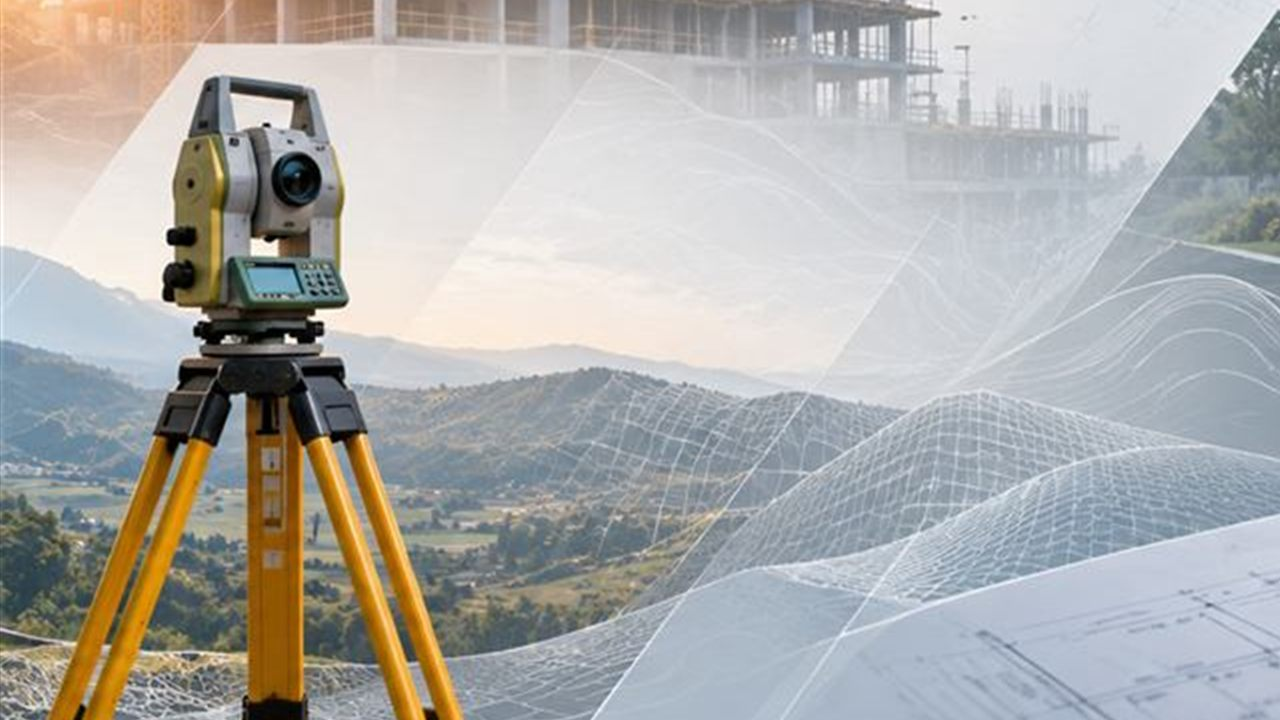
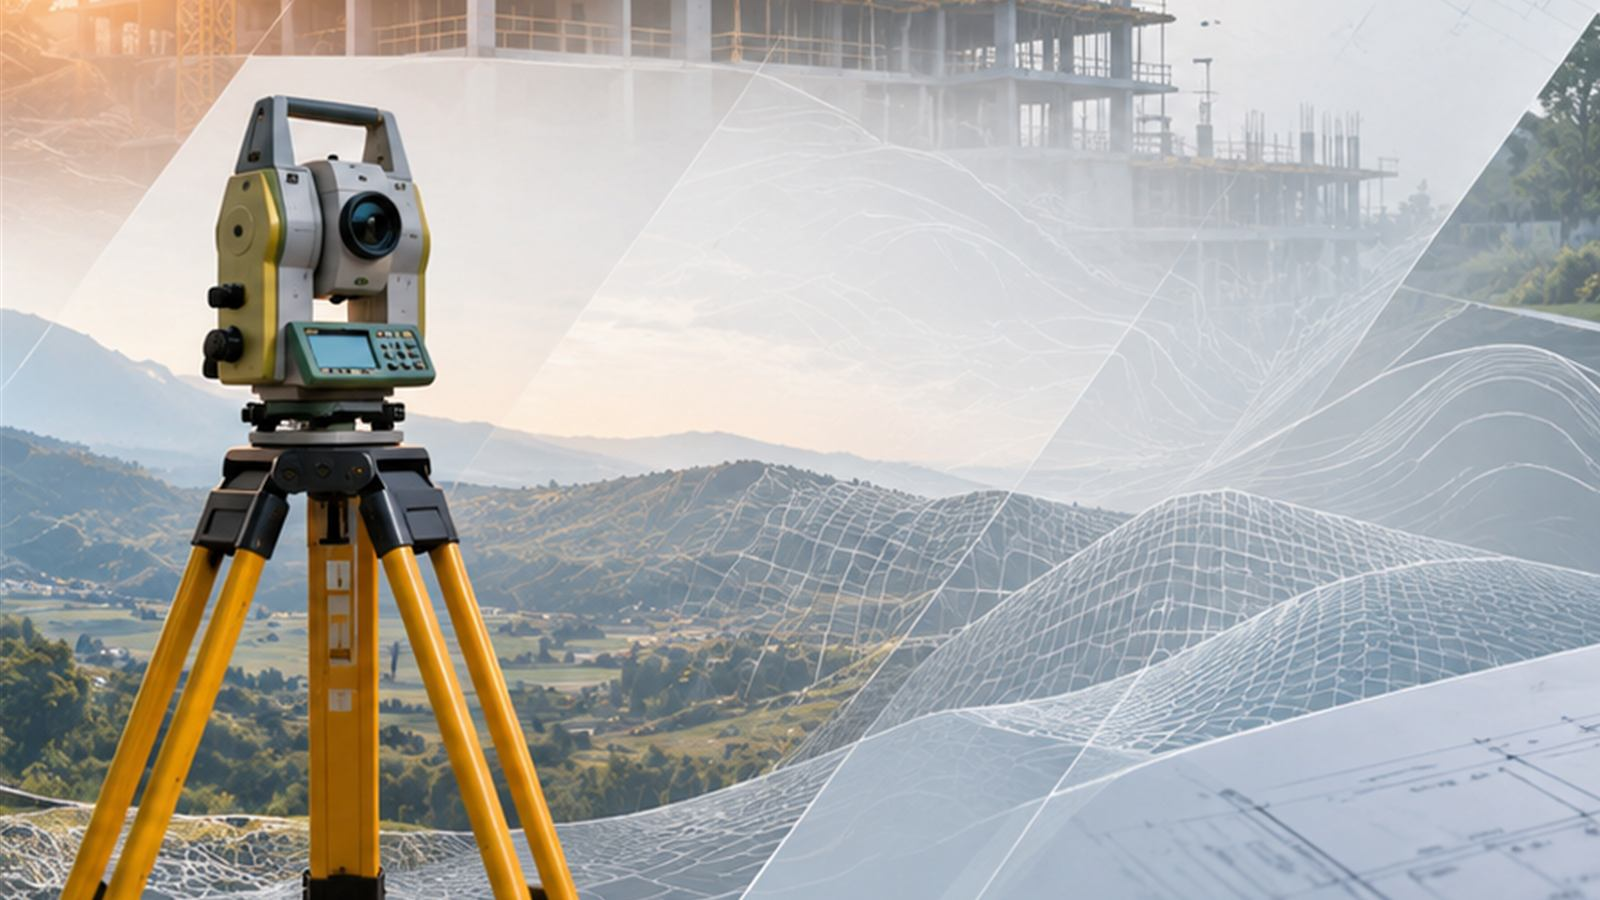
jas

diff --git a/assets/galeria.css b/assets/galeria.css
@@ -100,8 +100,12 @@ footer { color: var(--muted); font-size: .85rem; }
 .odovzdat input, .odovzdat select { font: inherit; padding: 9px 12px; border: 1px solid var(--border); border-radius: 8px; background: var(--card); color: var(--text); }
 .odovzdat button { font: inherit; padding: 11px 18px; border: 0; border-radius: 10px; background: var(--accent); color: #fff; font-weight: 700; cursor: pointer; }
 .odovzdat li { margin: 6px 0; }
-/* stránka školského roka: fotografia na pozadí (assets/rok-<rok>.jpg), cez ňu priesvitný závoj kvôli čitateľnosti */
-body.s-pozadie { background: linear-gradient(rgba(246,247,251,.78), rgba(246,247,251,.9)), var(--pozadie) center top / cover fixed no-repeat; min-height: 100vh; }
+/* stránky školského roka a tried: fotka na pozadí (assets/rok-<rok>.jpg alebo pozadie-<odbor>.jpg), cez ňu priesvitný závoj kvôli čitateľnosti.
+   Jas obrázka sa ladí v --pozadie-jas, sila závoja v --zavoj-hore / --zavoj-dole. */
+body.s-pozadie { --pozadie-jas: 1.25; --zavoj-hore: rgba(246,247,251,.48); --zavoj-dole: rgba(246,247,251,.72); position: relative; min-height: 100vh; background: var(--bg); }
+body.s-pozadie::before, body.s-pozadie::after { content: ""; position: fixed; inset: 0; z-index: -1; pointer-events: none; }
+body.s-pozadie::before { background: var(--pozadie) center top / cover no-repeat; filter: brightness(var(--pozadie-jas)) saturate(1.08); }
+body.s-pozadie::after { background: linear-gradient(var(--zavoj-hore), var(--zavoj-dole)); }
 @media (prefers-color-scheme: dark) {
-  body.s-pozadie { background: linear-gradient(rgba(20,23,31,.82), rgba(20,23,31,.92)), var(--pozadie) center top / cover fixed no-repeat; }
+  body.s-pozadie { --pozadie-jas: 1.2; --zavoj-hore: rgba(20,23,31,.6); --zavoj-dole: rgba(20,23,31,.84); }
 }
